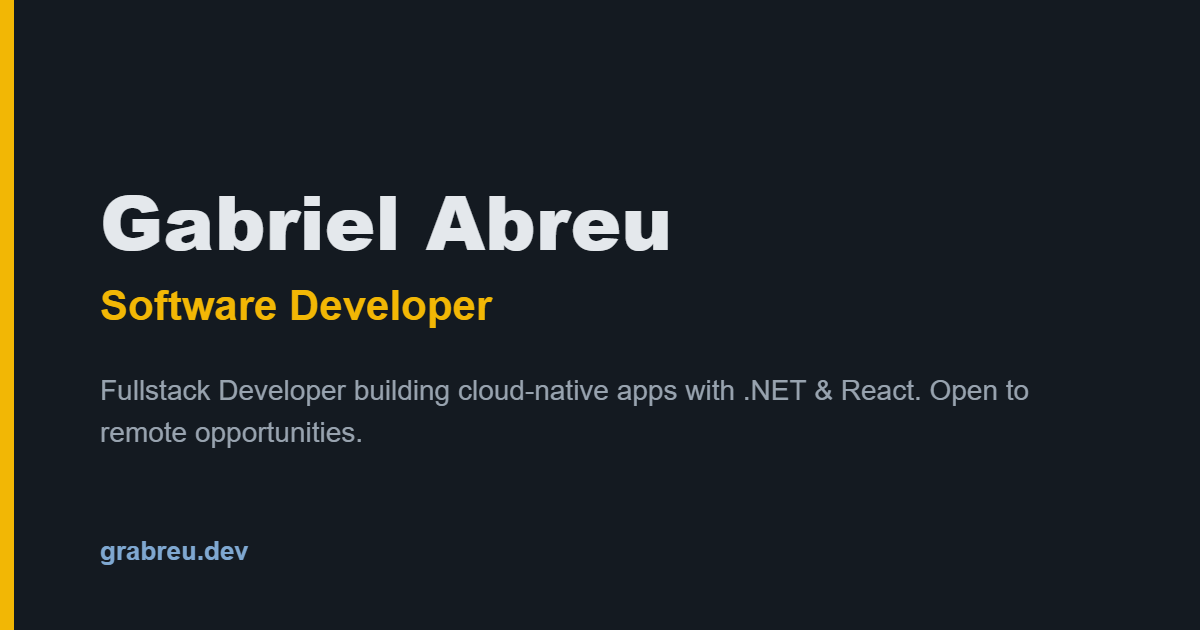
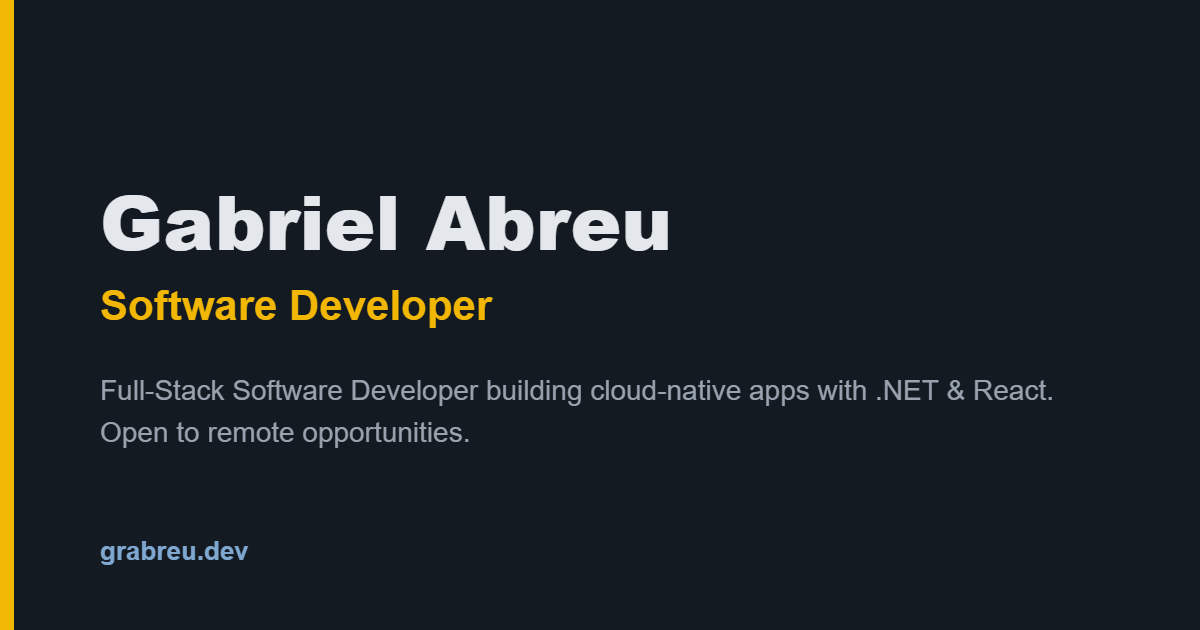
content: finish role title rename and update tagline
Update the remaining "Software Engineer" mentions in the About
section to "Software Developer" / "Desenvolvedor de Software", and
update the tagline to "Full-Stack Software Developer..." on both
locales. Regenerate og-image-en.png and og-image-pt.png to match.

Changed region(s): [[0.1233, 0.6032, 0.8942, 0.6333], [0.0925, 0.6635, 0.4008, 0.7238]]

diff --git a/src/data/content.ts b/src/data/content.ts
@@ -185,7 +185,7 @@ export const content: Record<"en" | "pt", SiteContent> = {
     name: "Gabriel Abreu",
     role: "Software Developer",
     tagline:
-      "Fullstack Developer building cloud-native apps with .NET & React. Open to remote opportunities.",
+      "Full-Stack Software Developer building cloud-native apps with .NET & React. Open to remote opportunities.",
     nav: [
       { href: "#about", label: "About" },
       { href: "#experience", label: "Experience" },
@@ -193,11 +193,11 @@ export const content: Record<"en" | "pt", SiteContent> = {
     ],
     aboutHeading: "About",
     about: [
-      "Software Engineer with 6+ years of experience building full-stack applications with .NET and React, primarily in logistics and cloud environments.",
+      "Software Developer with 6+ years of experience building full-stack applications with .NET and React, primarily in logistics and cloud environments.",
       "I like owning the whole path of a feature: the design discussion, the code, the tests, the pipeline, and what happens after it ships. I've spent a fair share of time in production incidents, reading logs and metrics until the root cause shows up, and that shapes how I write code in the first place.",
       "Lately I've been building independent projects exploring different stacks and architectures. You'll find them below.",
       "Main stack: .NET, Python, React, SQL Server, PostgreSQL, Azure, and Cloudflare.",
-      "Currently open to remote Software Engineer and Full-Stack opportunities, including international teams.",
+      "Currently open to remote Software Developer and Full-Stack opportunities, including international teams.",
     ],
     experienceHeading: "Experience",
     experience,
@@ -217,7 +217,7 @@ export const content: Record<"en" | "pt", SiteContent> = {
     name: "Gabriel Abreu",
     role: "Desenvolvedor de Software",
     tagline:
-      "Desenvolvedor Fullstack construindo aplicações cloud-native com .NET & React. Aberto a oportunidades remotas.",
+      "Desenvolvedor de Software Full-Stack construindo aplicações cloud-native com .NET & React. Aberto a oportunidades remotas.",
     nav: [
       { href: "#about", label: "Sobre" },
       { href: "#experience", label: "Experiência" },
@@ -225,11 +225,11 @@ export const content: Record<"en" | "pt", SiteContent> = {
     ],
     aboutHeading: "Sobre",
     about: [
-      "Software Engineer com mais de 6 anos de experiência construindo aplicações full-stack com .NET e React, principalmente em ambientes de logística e cloud.",
+      "Desenvolvedor de Software com mais de 6 anos de experiência construindo aplicações full-stack com .NET e React, principalmente em ambientes de logística e cloud.",
       "Gosto de acompanhar o caminho inteiro de uma feature: a discussão de design, o código, os testes, o pipeline, e o que acontece depois que ela vai pro ar. Passei boa parte do tempo em incidentes de produção, lendo logs e métricas até achar a causa raiz, e isso molda como eu escrevo código desde o início.",
       "Ultimamente venho construindo projetos independentes explorando diferentes stacks e arquiteturas. Você encontra abaixo.",
       "Stack principal: .NET, Python, React, SQL Server, PostgreSQL, Azure e Cloudflare.",
-      "Atualmente aberto a oportunidades remotas de Software Engineer e Full-Stack, incluindo times internacionais.",
+      "Atualmente aberto a oportunidades remotas de Desenvolvedor de Software e Full-Stack, incluindo times internacionais.",
     ],
     experienceHeading: "Experiência",
     experience: experiencePt,
